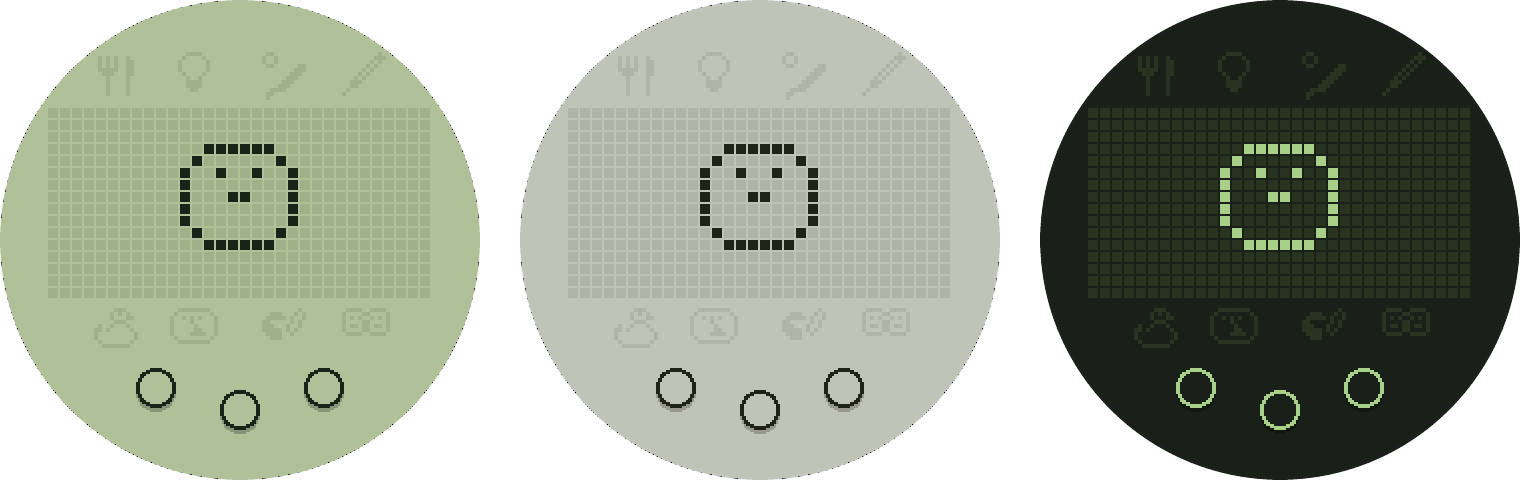
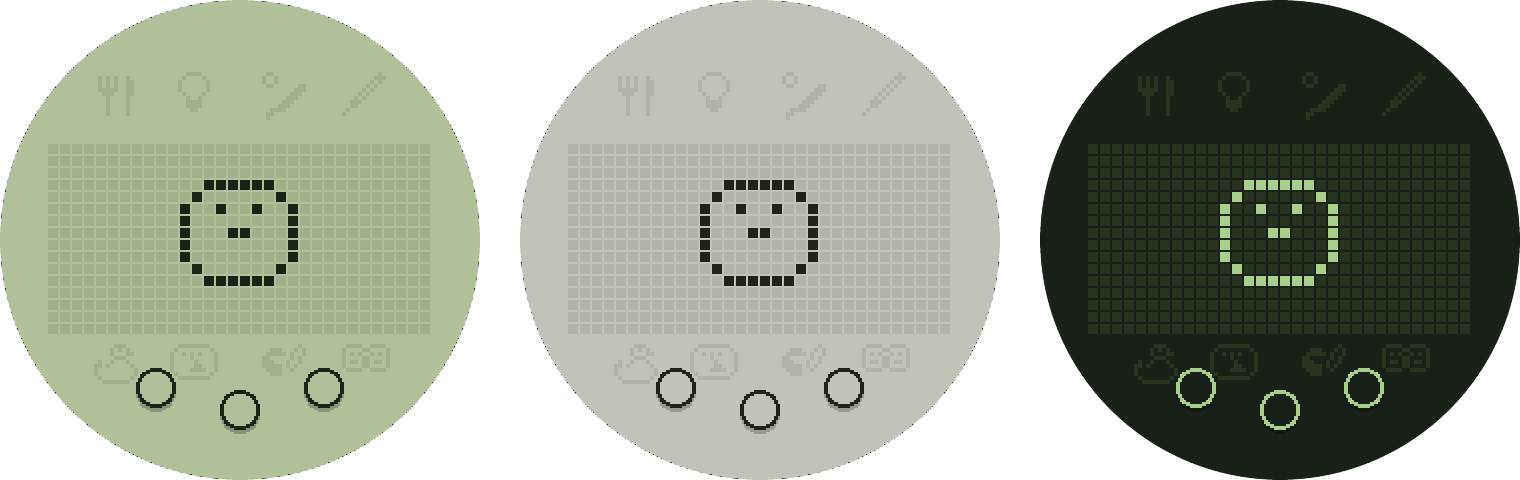
ui: pet LCD back in the middle of the screen
Owner's call: LCD centred (y 72), top icons at 48, bottom icons at 182
just above A and C; the keys and the 24 px swipe band stay. The button
strip now starts at y 170.

diff --git a/test/host/test_ui_render.c b/test/host/test_ui_render.c
@@ -42,37 +42,37 @@ static void test_lit_and_ghost(void)
 {
     frame.rows[0] = 1u;  // pixel (0,0)
     render(0);
-    TEST_ASSERT_EQUAL_HEX16(INK, PX(24, 54));
-    TEST_ASSERT_EQUAL_HEX16(INK, PX(28, 58));
-    TEST_ASSERT_EQUAL_HEX16(GHOST, PX(30, 54));   // pixel (1,0) unlit
+    TEST_ASSERT_EQUAL_HEX16(INK, PX(24, 72));
+    TEST_ASSERT_EQUAL_HEX16(INK, PX(28, 76));
+    TEST_ASSERT_EQUAL_HEX16(GHOST, PX(30, 72));   // pixel (1,0) unlit
 }
 
 static void test_pixel_gap(void)
 {
     frame.rows[0] = 0xFFFFFFFFu;
     render(0);
-    TEST_ASSERT_EQUAL_HEX16(BG, PX(29, 54));   // gap column of pixel (0,0)
-    TEST_ASSERT_EQUAL_HEX16(BG, PX(24, 59));   // gap row
+    TEST_ASSERT_EQUAL_HEX16(BG, PX(29, 72));   // gap column of pixel (0,0)
+    TEST_ASSERT_EQUAL_HEX16(BG, PX(24, 77));   // gap row
 }
 
 static void test_last_pixel_position(void)
 {
-    frame.rows[15] = 1u << 31;  // pixel (31,15) at x=24+186, y=54+90
+    frame.rows[15] = 1u << 31;  // pixel (31,15) at x=24+186, y=72+90
     render(0);
-    TEST_ASSERT_EQUAL_HEX16(INK, PX(210, 144));
-    TEST_ASSERT_EQUAL_HEX16(INK, PX(214, 148));
+    TEST_ASSERT_EQUAL_HEX16(INK, PX(210, 162));
+    TEST_ASSERT_EQUAL_HEX16(INK, PX(214, 166));
 }
 
 static void test_icon_lit(void)
 {
-    frame.icons = 1u << 7;  // Attention: bottom row, centre (183,164), top-left (171,152)
+    frame.icons = 1u << 7;  // Attention: bottom row, centre (183,182), top-left (171,170)
     render(0);
-    TEST_ASSERT_EQUAL_HEX16(INK, PX(171 + 2, 152 + 2));
-    TEST_ASSERT_EQUAL_HEX16(INK, PX(171 + 3, 152 + 3));
-    TEST_ASSERT_EQUAL_HEX16(BG, PX(171, 152));     // cell (0,0) is off
+    TEST_ASSERT_EQUAL_HEX16(INK, PX(171 + 2, 170 + 2));
+    TEST_ASSERT_EQUAL_HEX16(INK, PX(171 + 3, 170 + 3));
+    TEST_ASSERT_EQUAL_HEX16(BG, PX(171, 170));     // cell (0,0) is off
     frame.icons = 0;
     render(0);
-    TEST_ASSERT_EQUAL_HEX16(GHOST, PX(171 + 2, 152 + 2));
+    TEST_ASSERT_EQUAL_HEX16(GHOST, PX(171 + 2, 170 + 2));
 }
 
 static void test_p2_medicine_differs(void)
@@ -84,7 +84,7 @@ static void test_p2_medicine_differs(void)
     for (int y = 0; y < UI_H; y++)
         for (int x = 0; x < UI_W; x++)
             if (fb[y * UI_W + x] != fb2[y * UI_W + x]) {
-                TEST_ASSERT_TRUE_MESSAGE(x >= 171 && x <= 194 && y >= 26 && y <= 49, "diff outside Medicine icon");
+                TEST_ASSERT_TRUE_MESSAGE(x >= 171 && x <= 194 && y >= 36 && y <= 59, "diff outside Medicine icon");
                 diffs++;
             }
     TEST_ASSERT_GREATER_THAN(0, diffs);
@@ -97,8 +97,9 @@ static void test_pet_layout(void)
     TEST_ASSERT_EQUAL_HEX16(GHOST, PX(UI_LCD_X, UI_LCD_Y));   // first dot, unlit
     TEST_ASSERT_EQUAL_HEX16(BG, PX(UI_LCD_X, UI_LCD_Y - 1));
     TEST_ASSERT_EQUAL_HEX16(BG, PX(UI_LCD_X, UI_LCD_Y + 96));  // just under the LCD's last dot row
-    // icon boxes: 24 px centred at y 38 (top) and 164 (bottom), x centres 57, 97, 143, 183
-    static const int cx[4] = { 57, 97, 143, 183 }, cy[2] = { 38, 164 };
+    // LCD centred on the screen; icon boxes: 24 px centred at y 48 (top) and 182 (bottom), x centres 57, 97, 143, 183
+    TEST_ASSERT_EQUAL_INT(UI_H / 2, UI_LCD_Y + 16 * UI_LCD_PITCH / 2);
+    static const int cx[4] = { 57, 97, 143, 183 }, cy[2] = { 48, 182 };
     for (int r = 0; r < 2; r++)
         for (int i = 0; i < 4; i++) {
             int ink = 0;
@@ -108,8 +109,8 @@ static void test_pet_layout(void)
         }
     // nothing ink between the top icons and the LCD, or between the LCD and the bottom icons
     for (int x = 30; x < 210; x++) {
-        TEST_ASSERT_NOT_EQUAL_HEX16(INK, PX(x, 51));
-        TEST_ASSERT_NOT_EQUAL_HEX16(INK, PX(x, 151));
+        TEST_ASSERT_NOT_EQUAL_HEX16(INK, PX(x, 66));
+        TEST_ASSERT_NOT_EQUAL_HEX16(INK, PX(x, 168));
     }
 }
 

diff --git a/test/host/test_ui_touch.c b/test/host/test_ui_touch.c
@@ -15,8 +15,9 @@ static void test_strip_split(void)
     TEST_ASSERT_EQUAL_INT(TC_BTN_B, ui_button_at(99, 190));
     TEST_ASSERT_EQUAL_INT(TC_BTN_B, ui_button_at(140, 190));
     TEST_ASSERT_EQUAL_INT(TC_BTN_C, ui_button_at(141, 190));
-    TEST_ASSERT_EQUAL_INT(-1, ui_button_at(120, 151));
-    TEST_ASSERT_EQUAL_INT(TC_BTN_B, ui_button_at(120, 152));
+    TEST_ASSERT_EQUAL_INT(-1, ui_button_at(120, 167));  // the LCD's last row
+    TEST_ASSERT_EQUAL_INT(-1, ui_button_at(120, 169));
+    TEST_ASSERT_EQUAL_INT(TC_BTN_B, ui_button_at(120, 170));
     TEST_ASSERT_EQUAL_INT(TC_BTN_B, ui_button_at(120, 215));
     TEST_ASSERT_EQUAL_INT(-1, ui_button_at(120, 216));
     TEST_ASSERT_EQUAL_INT(-1, ui_button_at(120, 100));  // the LCD
@@ -187,7 +188,7 @@ static void test_track_new_touch_restarts(void)
 static void test_track_real_two_points_pass_through(void)
 {
     ui_touch_tracker_t tr = { 0 };
-    ui_touch_t t = { 2, { { 20, 160 }, { 200, 180 } } };
+    ui_touch_t t = { 2, { { 20, 175 }, { 200, 180 } } };
     TEST_ASSERT_EQUAL_HEX8(A | C, ui_touch_track(&tr, &t));
 }
 
@@ -208,7 +209,7 @@ static void test_track_lift_a_of_a_c_is_not_chord(void)
     ui_touch_tracker_t tr = { 0 };
     ui_touch_t t = at(20);
     ui_touch_track(&tr, &t);                                  // A down
-    t = (ui_touch_t){ 2, { { 20, 160 }, { 210, 180 } } };      // C added
+    t = (ui_touch_t){ 2, { { 20, 175 }, { 210, 180 } } };      // C added
     ui_touch_track(&tr, &t);
     t = at(210);                                              // A lifted
     TEST_ASSERT_EQUAL_HEX8(C, ui_touch_track(&tr, &t));

diff --git a/components/ui/include/ui.h b/components/ui/include/ui.h
@@ -28,12 +28,12 @@ void ui_render_pet(uint16_t *fb, const tc_frame_t *f, tc_model_t model,
 // ---- Touch ----
 // The pet's LCD on the pet screen: 32x16 dots at pitch UI_LCD_PITCH (UI_LCD_DOT lit), 192x96 at (UI_LCD_X, UI_LCD_Y).
 #define UI_LCD_X     24
-#define UI_LCD_Y     54
+#define UI_LCD_Y     72   // centred: 72 + 96/2 = 120
 #define UI_LCD_PITCH 6
 #define UI_LCD_DOT   5
 #define UI_BTN_R     10   // pet button radius: 20 px across, no letter (like the real P1)
 
-// Pet-screen buttons. The strip is y from the LCD's bottom + 2 to the bottom edge band (152..215 on 240x240).
+// Pet-screen buttons. The strip is y from the LCD's bottom + 2 to the bottom edge band (170..215 on 240x240).
 // The keys sit on an arc concentric with the screen: B at (UI_W/2, strip bottom - UI_BTN_R), A and C 42 px to
 // either side on the same arc ((78,194), (120,205), (162,194) on 240x240).
 void ui_button_centre(int btn, int *x, int *y);   // btn = TC_BTN_A/B/C

diff --git a/components/ui/ui_pet.c b/components/ui/ui_pet.c
@@ -4,7 +4,7 @@
 #include "ui_internal.h"
 
 static const int ICON_CX[4] = { 57, 97, 143, 183 };
-static const int ICON_CY[2] = { 38, 164 };  // top row partly in the top swipe band: drawn, never pressed
+static const int ICON_CY[2] = { 48, 182 };  // bottom row sits in the button strip, just above A and C
 
 static void fill(uint16_t *fb, int x, int y, int w, int h, uint16_t c)
 {
